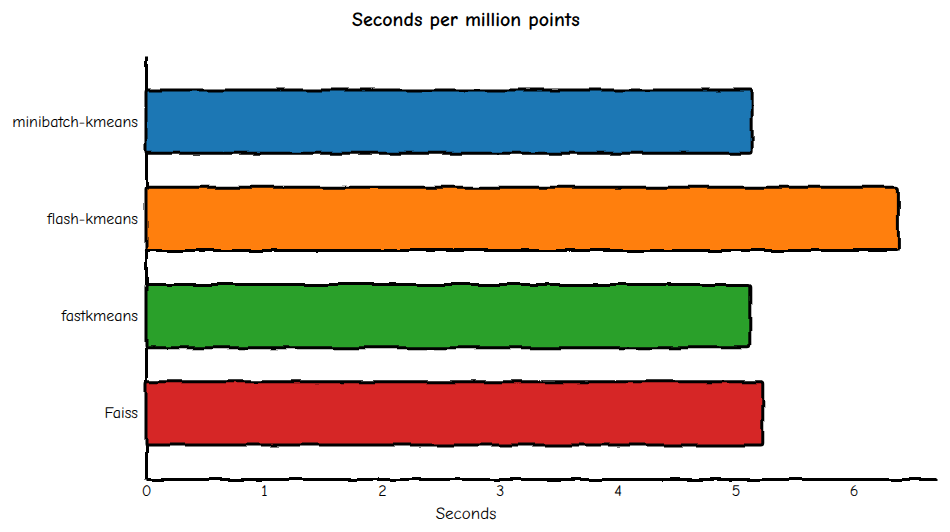
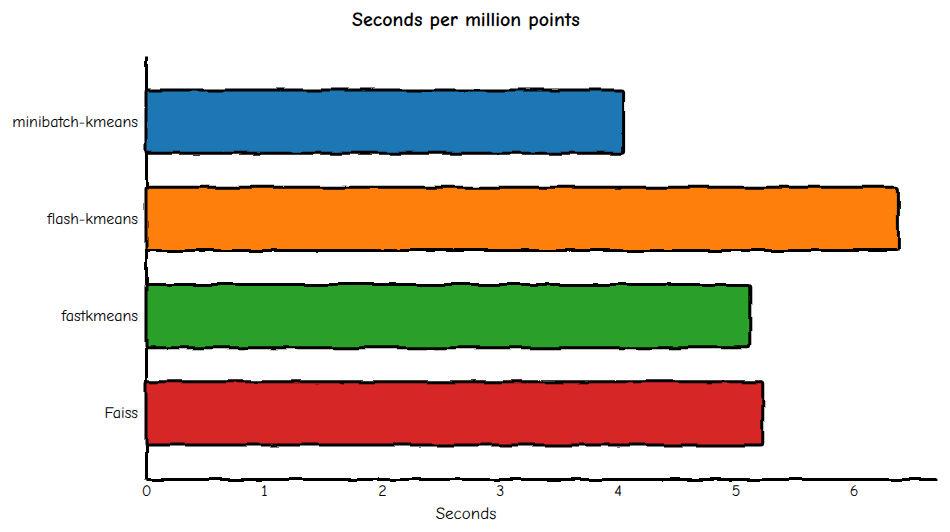
Prefetch mini-batches on a background thread (#1)
* Prefetch mini-batches on a background thread

When the model runs on CUDA and X stays on the CPU, a worker thread now
gathers the next batch into pinned memory and copies it to the GPU on a
side stream while the current batch trains. Two buffer slots are used;
three were measured and were no faster.

On a GB10, n=1,048,576, k=512, d=4096, 5 iterations, batch 16,384:
fit time 5.39 s -> 4.24 s. Validation WCSS and NMI are unchanged.
Peak GPU memory rises from 0.56 GiB to 0.87 GiB (one extra batch buffer).

Behaviour change: batch indices now come from a generator seeded once
from random_state, so a fixed seed gives different centers than 0.1.2.
Results remain reproducible for a given seed.

Updates the evaluation README text, perf_scaling_n.json rows for
minibatch-kmeans, and the speed and memory charts.

* Wake the prefetch worker on close; fix docs and tests

- close() now releases the slot semaphores so a worker waiting for a
  free slot exits at once. Before, an early stop (the default, via
  max_no_improvement) waited up to 100 ms for a polling timeout.
- The random_state docstring now says that fit() seeds a separate
  generator for minibatch sampling.
- The early-stop test now checks that fit actually stopped early and
  that close() returns within 50 ms (it took 81 ms before the fix).
- New test: an error in the worker thread is raised from fit() and the
  thread is shut down.

---------

Changed region(s): [[0.6411, 0.1504, 0.7937, 0.3008]]

diff --git a/src/minibatch_kmeans/_core.py b/src/minibatch_kmeans/_core.py
@@ -1,3 +1,5 @@
+import queue
+import threading
 from pathlib import Path
 from typing import Optional
 
@@ -28,6 +30,122 @@ class _ConvergenceState:
         self.ewa: float | None = None
         self.ewa_min: float | None = None
         self.no_improvement = 0
+
+
+class _BatchPrefetcher:
+    """Gathers and uploads mini-batches on a background thread.
+
+    ``X`` stays on the CPU. A worker thread draws batch indices, gathers the
+    rows into one of two pinned buffers, and copies that buffer to the GPU on
+    a side stream. While the GPU trains on batch ``i``, the worker prepares
+    batch ``i + 1``.
+
+    Slot life cycle (``slot = i % 2``):
+
+    1. Worker waits until the slot is free, then waits for that slot's
+       previous upload, so the pinned buffer is no longer being read.
+    2. Worker gathers rows into ``pinned[slot]`` and, on the copy stream,
+       waits for the training step that last used ``gpu[slot]``, then
+       uploads and records ``copied[slot]``.
+    3. :meth:`next` makes the compute stream wait for ``copied[slot]``.
+    4. :meth:`release` records ``used[slot]`` on the compute stream and
+       hands the slot back to the worker.
+    """
+
+    _N_SLOTS = 2
+
+    def __init__(
+        self,
+        X: torch.Tensor,
+        batch_size: int,
+        n_steps: int,
+        index_rng: torch.Generator,
+        device: torch.device,
+    ) -> None:
+        self._X = X
+        self._batch_size = batch_size
+        self._n_steps = n_steps
+        self._rng = index_rng
+        if device.index is None:
+            device = torch.device("cuda", torch.cuda.current_device())
+        self._device = device
+        n_features = int(X.shape[1])
+        shape = (batch_size, n_features)
+        self._pinned = [
+            torch.empty(shape, dtype=X.dtype, pin_memory=True)
+            for _ in range(self._N_SLOTS)
+        ]
+        self._gpu = [
+            torch.empty(shape, dtype=X.dtype, device=device)
+            for _ in range(self._N_SLOTS)
+        ]
+        self._copied = [torch.cuda.Event() for _ in range(self._N_SLOTS)]
+        self._used = [torch.cuda.Event() for _ in range(self._N_SLOTS)]
+        self._used_recorded = [False] * self._N_SLOTS
+        self._free = [threading.Semaphore(1) for _ in range(self._N_SLOTS)]
+        self._ready: queue.Queue = queue.Queue()
+        self._copy_stream = torch.cuda.Stream(device=device)
+        self._stop = threading.Event()
+        self._step = 0
+        self._thread = threading.Thread(
+            target=self._worker, name="minibatch-kmeans-prefetch", daemon=True
+        )
+        self._thread.start()
+
+    def _acquire(self, slot: int) -> bool:
+        """Wait until ``slot`` is free. Returns False if :meth:`close` was called."""
+        self._free[slot].acquire()
+        return not self._stop.is_set()
+
+    def _worker(self) -> None:
+        try:
+            torch.cuda.set_device(self._device)
+            n_samples = self._X.shape[0]
+            for i in range(self._n_steps):
+                slot = i % self._N_SLOTS
+                if not self._acquire(slot):
+                    return
+                # The previous upload from this pinned buffer must finish
+                # before the buffer is overwritten.
+                self._copied[slot].synchronize()
+                idx = torch.randint(
+                    0, n_samples, (self._batch_size,), device="cpu", generator=self._rng
+                )
+                torch.index_select(self._X, 0, idx, out=self._pinned[slot])
+                with torch.cuda.stream(self._copy_stream):
+                    if self._used_recorded[slot]:
+                        self._copy_stream.wait_event(self._used[slot])
+                    self._gpu[slot].copy_(self._pinned[slot], non_blocking=True)
+                    self._copied[slot].record(self._copy_stream)
+                self._ready.put(slot)
+        except BaseException as exc:  # surface errors in the training thread
+            self._ready.put(exc)
+
+    def next(self) -> torch.Tensor:
+        """Return the next batch on the GPU, ready for the current stream."""
+        item = self._ready.get()
+        if isinstance(item, BaseException):
+            raise item
+        slot = item
+        torch.cuda.current_stream(self._device).wait_event(self._copied[slot])
+        return self._gpu[slot]
+
+    def release(self) -> None:
+        """Mark the batch from the last :meth:`next` as no longer needed."""
+        slot = self._step % self._N_SLOTS
+        self._used[slot].record(torch.cuda.current_stream(self._device))
+        self._used_recorded[slot] = True
+        self._step += 1
+        self._free[slot].release()
+
+    def close(self) -> None:
+        self._stop.set()
+        # Wake the worker if it is waiting for a free slot, so it sees the
+        # stop flag at once instead of waiting for a step that never comes.
+        for sem in self._free:
+            sem.release()
+        self._thread.join()
+        torch.cuda.current_stream(self._device).wait_stream(self._copy_stream)
 
 
 def _pairwise_squared_distances(X: torch.Tensor, C: torch.Tensor) -> torch.Tensor:
@@ -80,9 +198,11 @@ class MiniBatchKMeans:
             messages.
 
         **random_state** (`torch.Generator` or ``None``):
-            CPU ``torch.Generator`` for sampling minibatches and initialization.
-            If ``None``, a new generator is created with a random seed (runs are
-            not reproducible).
+            CPU ``torch.Generator`` for initialization and center reassignment.
+            :meth:`fit` also takes one draw from it to seed a separate generator
+            that samples the minibatches, so batch sampling stays reproducible
+            when batches are prepared on a background thread. If ``None``, a new
+            generator is created with a random seed (runs are not reproducible).
 
         **reassignment_ratio** (`float`, default ``0.01``):
             During training, clusters whose weight is below this fraction of the
@@ -448,48 +568,58 @@ class MiniBatchKMeans:
         self._init_centroids(X)
 
         n_steps = (max_iter * n_samples) // batch_size
-        n_features = int(X.shape[1])
         dev = torch.device(device)
         use_staging = dev.type == "cuda" and X.device.type == "cpu"
-        if use_staging:
-            pinned_batch = torch.empty(
-                (batch_size, n_features), dtype=X.dtype, pin_memory=True
-            )
-            gpu_batch = torch.empty(
-                (batch_size, n_features), dtype=X.dtype, device=dev
-            )
 
-        for i in range(n_steps):
-            mb_idx = torch.randint(
-                0, n_samples, (batch_size,), device="cpu", generator=rng
-            )
-            if use_staging:
-                torch.index_select(X, 0, mb_idx, out=pinned_batch)
-                gpu_batch.copy_(pinned_batch)
-                X_batch = gpu_batch
-            else:
-                X_batch = X[mb_idx].to(device)
+        # Batch indices come from their own generator, seeded once from
+        # ``random_state``. The prefetch thread draws them ahead of the
+        # training loop, so they must not share a generator with the
+        # reassignment code, or results would depend on thread timing.
+        index_seed = int(
+            torch.randint(0, 2**62, (1,), device="cpu", generator=rng).item()
+        )
+        index_rng = torch.Generator(device="cpu").manual_seed(index_seed)
 
-            centers_new, batch_inertia = self._mini_batch_step(
-                X_batch,
-                return_inertia=need_batch_inertia,
-            )
+        prefetcher = (
+            _BatchPrefetcher(X, batch_size, n_steps, index_rng, dev)
+            if use_staging
+            else None
+        )
+        try:
+            for i in range(n_steps):
+                if prefetcher is not None:
+                    X_batch = prefetcher.next()
+                else:
+                    mb_idx = torch.randint(
+                        0, n_samples, (batch_size,), device="cpu", generator=index_rng
+                    )
+                    X_batch = X[mb_idx].to(device)
 
-            converged = self._mini_batch_convergence(
-                i,
-                n_steps,
-                n_samples,
-                batch_size,
-                centers_new,
-                batch_inertia,
-                tol,
-                max_no_improvement,
-                inertia_convergence,
-            )
+                centers_new, batch_inertia = self._mini_batch_step(
+                    X_batch,
+                    return_inertia=need_batch_inertia,
+                )
+                if prefetcher is not None:
+                    prefetcher.release()
 
-            self._cluster_centers = centers_new
-            if converged:
-                break
+                converged = self._mini_batch_convergence(
+                    i,
+                    n_steps,
+                    n_samples,
+                    batch_size,
+                    centers_new,
+                    batch_inertia,
+                    tol,
+                    max_no_improvement,
+                    inertia_convergence,
+                )
+
+                self._cluster_centers = centers_new
+                if converged:
+                    break
+        finally:
+            if prefetcher is not None:
+                prefetcher.close()
 
         return self._cluster_centers
 

diff --git a/tests/test_prefetch.py b/tests/test_prefetch.py
@@ -1,0 +1,87 @@
+import threading
+import time
+import unittest
+from unittest import mock
+
+import torch
+
+import minibatch_kmeans._core as core
+from minibatch_kmeans import MiniBatchKMeans
+
+
+@unittest.skipUnless(torch.cuda.is_available(), "needs CUDA")
+class TestPrefetch(unittest.TestCase):
+    def _fit(self, X, **kw):
+        km = MiniBatchKMeans(
+            n_clusters=16,
+            device=torch.device("cuda"),
+            random_state=torch.Generator().manual_seed(3),
+        )
+        km.fit(X, batch_size=512, max_iter=5, **kw)
+        return km
+
+    def test_cpu_data_matches_gpu_data(self):
+        torch.manual_seed(0)
+        X = torch.randn(20_000, 32)
+        a = self._fit(X, max_no_improvement=None)
+        b = self._fit(X.cuda(), max_no_improvement=None)
+        torch.testing.assert_close(a.cluster_centers, b.cluster_centers, rtol=1e-4, atol=1e-4)
+        torch.testing.assert_close(a._counts, b._counts)
+
+    def test_same_seed_is_reproducible(self):
+        torch.manual_seed(0)
+        X = torch.randn(20_000, 32)
+        a = self._fit(X)
+        b = self._fit(X)
+        torch.testing.assert_close(a.cluster_centers, b.cluster_centers)
+
+    def _thread_names(self):
+        return [t.name for t in threading.enumerate()]
+
+    def test_early_stop_shuts_down_thread_promptly(self):
+        torch.manual_seed(0)
+        X = torch.randn(20_000, 32)
+        steps = []
+        orig_next = core._BatchPrefetcher.next
+        orig_close = core._BatchPrefetcher.close
+        close_times = []
+
+        def counting_next(self):
+            steps.append(1)
+            return orig_next(self)
+
+        def timed_close(self):
+            # Give the worker time to finish its in-flight batch and park
+            # waiting for a free slot, which is the case close() must handle.
+            time.sleep(0.02)
+            t0 = time.perf_counter()
+            orig_close(self)
+            close_times.append(time.perf_counter() - t0)
+
+        with mock.patch.object(core._BatchPrefetcher, "next", counting_next), \
+                mock.patch.object(core._BatchPrefetcher, "close", timed_close):
+            # The convergence check skips step 1, so a huge tol stops at step 2.
+            self._fit(X, tol=1e9)
+
+        n_steps = (5 * 20_000) // 512
+        self.assertEqual(len(steps), 2, f"expected an early stop, ran {len(steps)} of {n_steps} steps")
+        self.assertNotIn("minibatch-kmeans-prefetch", self._thread_names())
+        # The worker is parked waiting for a free slot; close() must wake it,
+        # not wait for a polling timeout.
+        self.assertLess(close_times[0], 0.05)
+
+    def test_worker_error_is_raised_in_fit(self):
+        torch.manual_seed(0)
+        X = torch.randn(20_000, 32)
+
+        def broken_index_select(*args, **kwargs):
+            raise RuntimeError("gather failed")
+
+        with mock.patch.object(core.torch, "index_select", broken_index_select):
+            with self.assertRaisesRegex(RuntimeError, "gather failed"):
+                self._fit(X, max_no_improvement=None)
+        self.assertNotIn("minibatch-kmeans-prefetch", self._thread_names())
+
+
+if __name__ == "__main__":
+    unittest.main()

diff --git a/evaluation/README.md b/evaluation/README.md
@@ -37,11 +37,11 @@ The speed test uses a synthetic Gaussian mixture with 512 clusters and 4,096 fea
 
 ![Seconds per million points at 1,048,576 points, one bar per method.](../reports/figures/xkcd/wall_vs_n.png)
 
-The time per point has leveled off by 1,048,576 points, so the chart shows only that size. minibatch-kmeans, fastkmeans, and Faiss each take 5.1 to 5.2 seconds per million points. flash-kmeans takes 6.4 seconds.
+The time per point has leveled off by 1,048,576 points, so the chart shows only that size. minibatch-kmeans takes 4.0 seconds per million points. fastkmeans and Faiss each take 5.1 to 5.2 seconds, and flash-kmeans takes 6.4 seconds. minibatch-kmeans prepares the next batch on a background thread and copies it to the GPU while the current batch trains, so the GPU rarely waits for data.
 
 ![Peak GPU memory during the fit, in GiB, at four sizes from 65,536 to 1,048,576 points.](../reports/figures/xkcd/mem_bars.png)
 
-minibatch-kmeans peaks at 0.56 GiB of GPU memory at every size. Faiss stays at 1.7 GiB, and fastkmeans stays near 2.7 GiB. flash-kmeans grows with the number of points, from 5.7 GiB at 65,536 points to 27.5 GiB at 1,048,576 points.
+minibatch-kmeans peaks at 0.87 GiB of GPU memory at every size. That includes a second batch buffer for the background copy. Faiss stays at 1.7 GiB, and fastkmeans stays near 2.7 GiB. flash-kmeans grows with the number of points, from 5.7 GiB at 65,536 points to 27.5 GiB at 1,048,576 points.
 
 ## Reproduce the benchmarks
 
